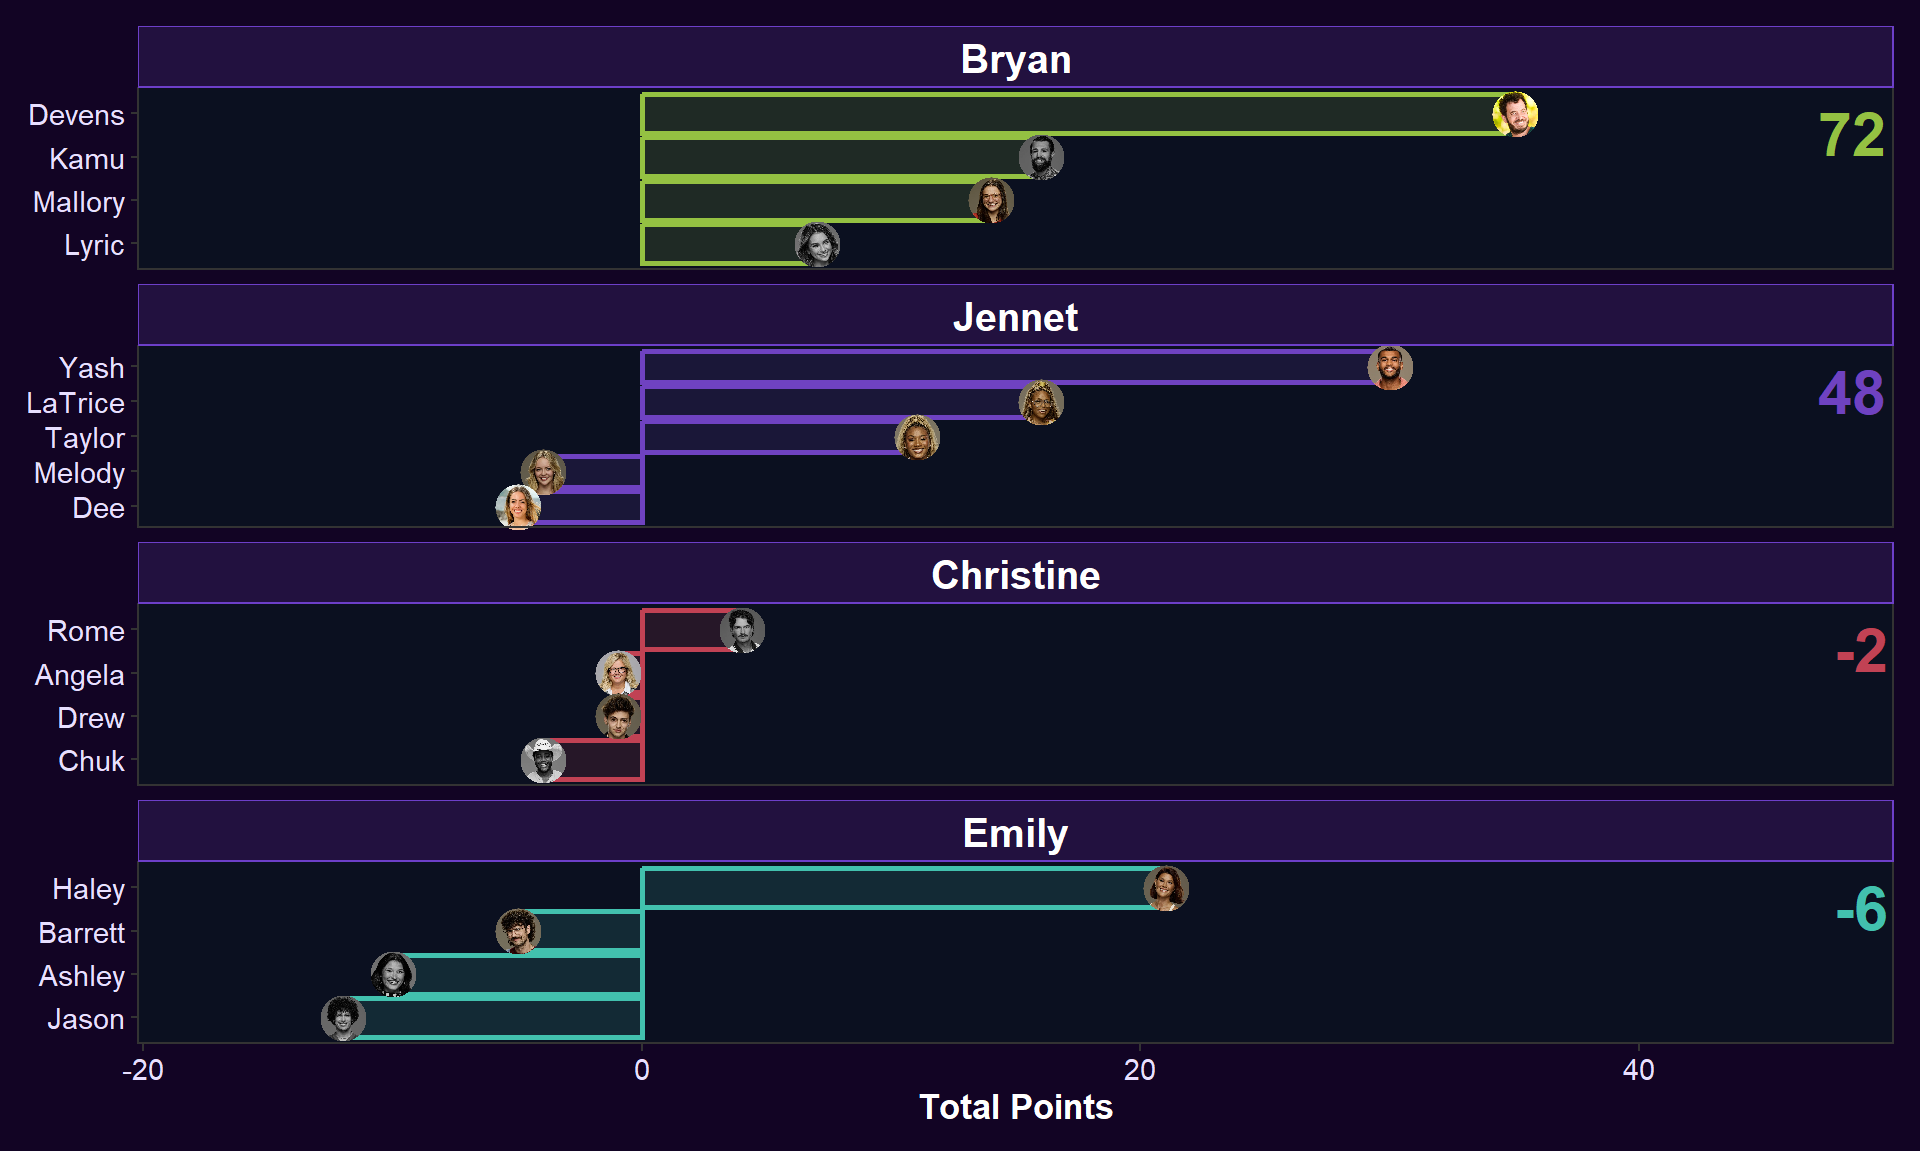
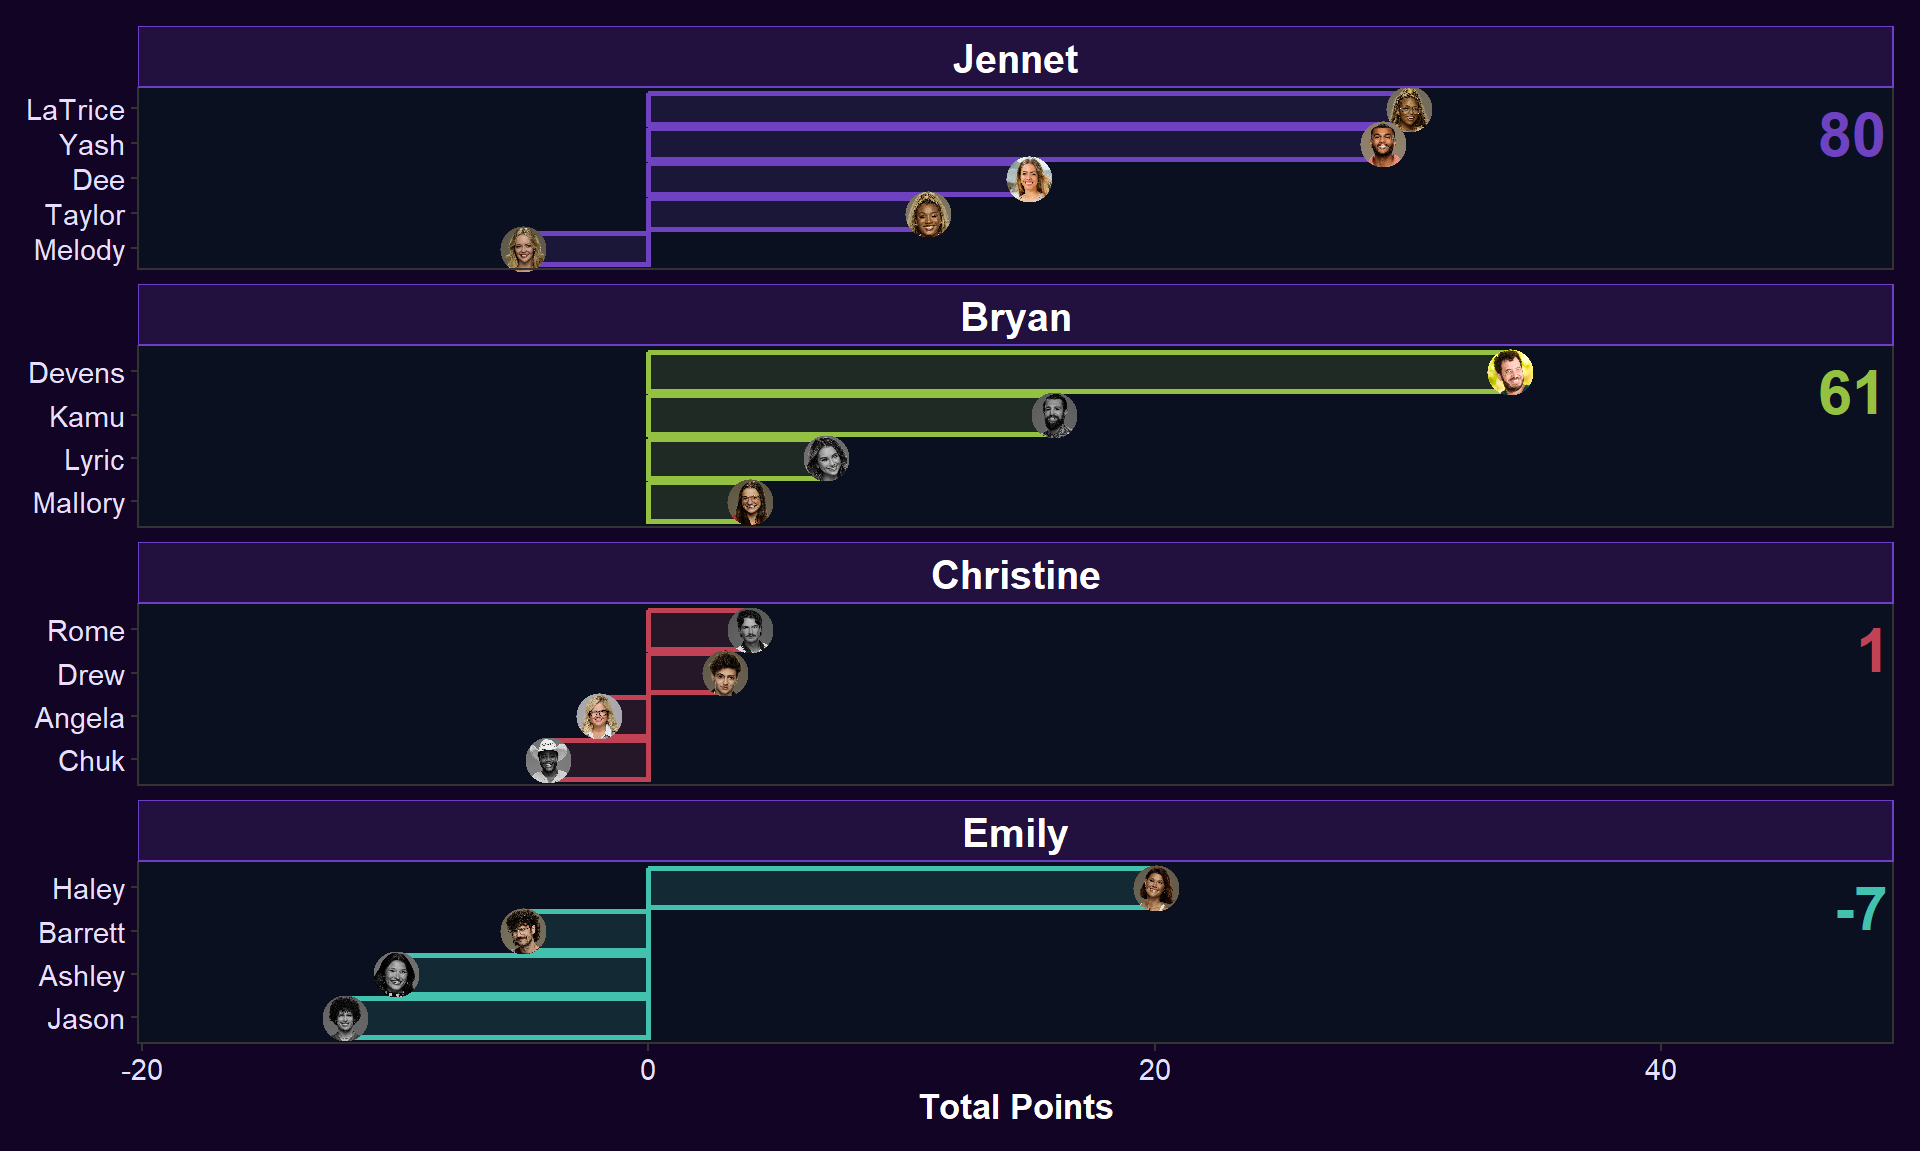
Aug_28

diff --git a/index.html b/index.html
@@ -120,14 +120,14 @@ grid-auto-rows: minmax(0, 1fr);">
 <td style="text-align: right;">2</td>
 <td style="text-align: right;">4</td>
 <td style="text-align: right;">1</td>
-<td style="text-align: right;">6</td>
+<td style="text-align: right;">7</td>
 </tr>
 <tr class="even">
 <td style="text-align: left;">Christine</td>
 <td style="text-align: right;">0</td>
 <td style="text-align: right;">0</td>
-<td style="text-align: right;">2</td>
-<td style="text-align: right;">4</td>
+<td style="text-align: right;">3</td>
+<td style="text-align: right;">5</td>
 </tr>
 <tr class="odd">
 <td style="text-align: left;">Emily</td>
@@ -139,9 +139,9 @@ grid-auto-rows: minmax(0, 1fr);">
 <tr class="even">
 <td style="text-align: left;">Jennet</td>
 <td style="text-align: right;">4</td>
-<td style="text-align: right;">2</td>
+<td style="text-align: right;">3</td>
 <td style="text-align: right;">1</td>
-<td style="text-align: right;">7</td>
+<td style="text-align: right;">9</td>
 </tr>
 </tbody>
 </table>
@@ -1381,6 +1381,134 @@ grid-auto-rows: minmax(0, 1fr);">
 <td style="text-align: left;">Jennet</td>
 <td style="text-align: left;">Wins HOH</td>
 <td style="text-align: right;">20</td>
+</tr>
+<tr class="odd">
+<td style="text-align: left;">Aug 21 2026</td>
+<td style="text-align: right;">7</td>
+<td style="text-align: left;">LaTrice</td>
+<td style="text-align: left;">Jennet</td>
+<td style="text-align: left;">Gets Nominated</td>
+<td style="text-align: right;">-5</td>
+</tr>
+<tr class="even">
+<td style="text-align: left;">Aug 21 2026</td>
+<td style="text-align: right;">7</td>
+<td style="text-align: left;">Taylor</td>
+<td style="text-align: left;">Jennet</td>
+<td style="text-align: left;">Gets Nominated</td>
+<td style="text-align: right;">-5</td>
+</tr>
+<tr class="odd">
+<td style="text-align: left;">Aug 21 2026</td>
+<td style="text-align: right;">7</td>
+<td style="text-align: left;">Drew</td>
+<td style="text-align: left;">Christine</td>
+<td style="text-align: left;">Gets Nominated</td>
+<td style="text-align: right;">-5</td>
+</tr>
+<tr class="even">
+<td style="text-align: left;">Aug 21 2026</td>
+<td style="text-align: right;">7</td>
+<td style="text-align: left;">Dee</td>
+<td style="text-align: left;">Jennet</td>
+<td style="text-align: left;">Uses a Power</td>
+<td style="text-align: right;">20</td>
+</tr>
+<tr class="odd">
+<td style="text-align: left;">Aug 22 2026</td>
+<td style="text-align: right;">7</td>
+<td style="text-align: left;">LaTrice</td>
+<td style="text-align: left;">Jennet</td>
+<td style="text-align: left;">Wins Veto</td>
+<td style="text-align: right;">10</td>
+</tr>
+<tr class="even">
+<td style="text-align: left;">Aug 22 2026</td>
+<td style="text-align: right;">7</td>
+<td style="text-align: left;">LaTrice</td>
+<td style="text-align: left;">Jennet</td>
+<td style="text-align: left;">Uses the Veto on Themselves</td>
+<td style="text-align: right;">10</td>
+</tr>
+<tr class="odd">
+<td style="text-align: left;">Aug 24 2026</td>
+<td style="text-align: right;">7</td>
+<td style="text-align: left;">Mallory</td>
+<td style="text-align: left;">Bryan</td>
+<td style="text-align: left;">Renominated</td>
+<td style="text-align: right;">-10</td>
+</tr>
+<tr class="even">
+<td style="text-align: left;">Aug 27 2026</td>
+<td style="text-align: right;">7</td>
+<td style="text-align: left;">Drew</td>
+<td style="text-align: left;">Christine</td>
+<td style="text-align: left;">Wins BlockBuster</td>
+<td style="text-align: right;">10</td>
+</tr>
+<tr class="odd">
+<td style="text-align: left;">Aug 27 2026</td>
+<td style="text-align: right;">7</td>
+<td style="text-align: left;">Taylor</td>
+<td style="text-align: left;">Jennet</td>
+<td style="text-align: left;">Survives the Vote</td>
+<td style="text-align: right;">5</td>
+</tr>
+<tr class="even">
+<td style="text-align: left;">Aug 27 2026</td>
+<td style="text-align: right;">7</td>
+<td style="text-align: left;">Melody</td>
+<td style="text-align: left;">Jennet</td>
+<td style="text-align: left;">Shoutout During Live Evicition</td>
+<td style="text-align: right;">-1</td>
+</tr>
+<tr class="odd">
+<td style="text-align: left;">Aug 27 2026</td>
+<td style="text-align: right;">7</td>
+<td style="text-align: left;">Angela</td>
+<td style="text-align: left;">Christine</td>
+<td style="text-align: left;">Shoutout During Live Evicition</td>
+<td style="text-align: right;">-1</td>
+</tr>
+<tr class="even">
+<td style="text-align: left;">Aug 27 2026</td>
+<td style="text-align: right;">7</td>
+<td style="text-align: left;">Drew</td>
+<td style="text-align: left;">Christine</td>
+<td style="text-align: left;">Shoutout During Live Evicition</td>
+<td style="text-align: right;">-1</td>
+</tr>
+<tr class="odd">
+<td style="text-align: left;">Aug 27 2026</td>
+<td style="text-align: right;">7</td>
+<td style="text-align: left;">Devens</td>
+<td style="text-align: left;">Bryan</td>
+<td style="text-align: left;">Shoutout During Live Evicition</td>
+<td style="text-align: right;">-1</td>
+</tr>
+<tr class="even">
+<td style="text-align: left;">Aug 27 2026</td>
+<td style="text-align: right;">7</td>
+<td style="text-align: left;">LaTrice</td>
+<td style="text-align: left;">Jennet</td>
+<td style="text-align: left;">Shoutout During Live Evicition</td>
+<td style="text-align: right;">-1</td>
+</tr>
+<tr class="odd">
+<td style="text-align: left;">Aug 27 2026</td>
+<td style="text-align: right;">7</td>
+<td style="text-align: left;">Haley</td>
+<td style="text-align: left;">Emily</td>
+<td style="text-align: left;">Shoutout During Live Evicition</td>
+<td style="text-align: right;">-1</td>
+</tr>
+<tr class="even">
+<td style="text-align: left;">Aug 27 2026</td>
+<td style="text-align: right;">7</td>
+<td style="text-align: left;">Yash</td>
+<td style="text-align: left;">Jennet</td>
+<td style="text-align: left;">Shoutout During Live Evicition</td>
+<td style="text-align: right;">-1</td>
 </tr>
 </tbody>
 </table>
